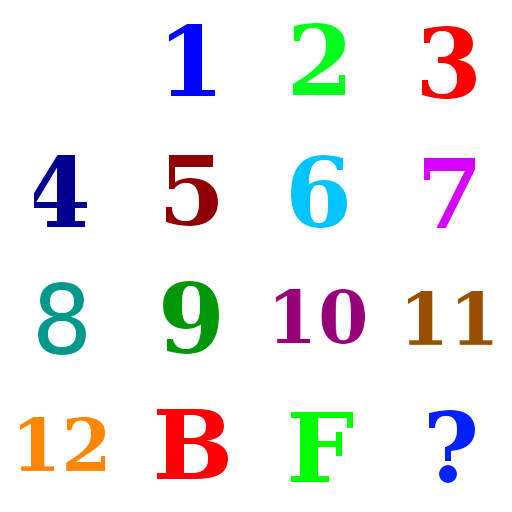
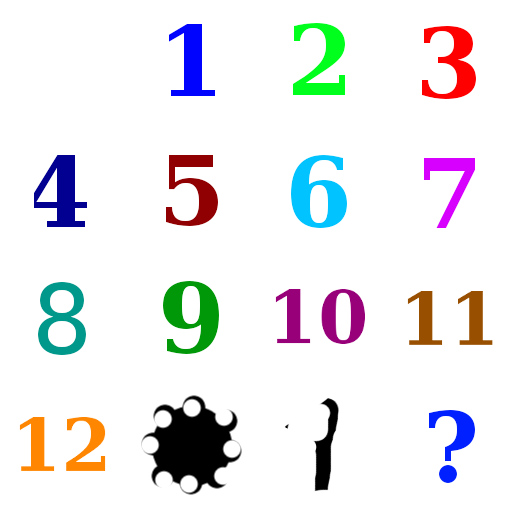
Iniitial layout done.

Changed region(s): [[0.2812, 0.75, 0.4688, 0.9688], [0.5625, 0.7812, 0.6875, 0.9688]]

diff --git a/minesphere.js b/minesphere.js
@@ -24,9 +24,9 @@ var Config = (function(){
     }
     return {
         divisions: query_string["divisions"] || 3,
-        mines: query_string["mines"] || 106,
-        fov: query_string["fov"] || 100,
-        layback: query_string["layback"] || 1,
+        mines: query_string["mines"] || 200,
+        fov: query_string["fov"] || 90,
+        layback: query_string["layback"] || 0.5,
         normalize: !query_string["dont_normalize"],
         tiles: query_string["tiles"] || "tiles_en.png"
     };
@@ -152,6 +152,32 @@ var Board = (function(){
         divide();
     }
 
+    // iterate the tiles adjacent to this one (including vertices, aka the visible set of a bomb)
+    Board.iter = function (index, cb)
+    {
+        var tri = Board.triangles[index];
+        var visited = {};
+        visited[index] = true;
+        for (var i = 0; i < 3; ++i)
+        {
+            var prev = index;
+            var cur = tri.ni[i];
+            while (!visited[cur] || prev == index)
+            {
+                if (!visited[cur])
+                {
+                    cb(cur);
+                    visited[cur] = true;
+                }
+                var ntri = Board.triangles[cur];
+                var ne = ntri.ni.indexOf(prev);
+                var next = ntri.ni[(ne + 2) % 3];
+                prev = cur;
+                cur = next;
+            }
+        }
+    };
+
     function sub(a,b)
     {
         return [a[0]-b[0],a[1]-b[1],a[2]-b[2]];
@@ -178,14 +204,47 @@ var Board = (function(){
         }
     }
 
+    // state is visible, and passed to shader for rendering
+    // hiddenState is the 'true' state of the board and never changes, and contains no flags, q-marks or unpressed
     Board.state = new Float32Array(Math.ceil(Board.triangles.length / 4) * 4);
+    Board.hiddenState = new Uint8Array(Board.triangles.length);
+    var bombIndices = new Uint16Array(Board.triangles.length);
+    for (var i = 0; i < Board.triangles.length; ++i)
+    {
+        var j = Math.floor(Math.random() * (i + 1));
+        bombIndices[i] = bombIndices[j];
+        bombIndices[j] = i;
+    }
+    var BOMB = 13;
+    var FLAG = 14;
+    var QMARK = 15;
+    var UNPRESSED = 16;
+    for (var i = 0; i < Config.mines; ++i)
+    {
+        Board.hiddenState[bombIndices[i]] = BOMB;
+    }
+    // generate counts in hiddenstate
+    for (var i = 0; i < Config.mines; ++i)
+    {
+        Board.iter(bombIndices[i], function (j)
+        {
+            if (Board.hiddenState[j] != BOMB)
+            {
+                ++Board.hiddenState[j];
+            }
+        });
+    }
+
+    for (var i = 0; i < Board.triangles.length; ++i)
+    {
+        Board.state[i] = Board.hiddenState[i];//UNPRESSED;
+    }
 
     Board.maxLayback = 1.0;
     Board.stride = 9;
     Board.vertexBuffer = new Float32Array(Board.triangles.length * 3 * Board.stride);
     for (var i = 0; i < Board.triangles.length; ++i)
     {
-        Board.state[i] = i % 17;
         var v0 = Board.triangles[i].vi[0];
         var v1 = Board.triangles[i].vi[1];
         var v2 = Board.triangles[i].vi[2];
@@ -548,7 +607,7 @@ Render.init = function ()
             \n\
             vec3  lighting = texture2D(envmap, vec2(atan( normal.z,  normal.x) * 0.15915494309 + 0.5, asin( normal.y) * 0.31830988618 + 0.5)).xyz; \n\
             \n\
-            if (tindex < 0.5) \n\
+            if (tindex > 15.5) \n\
             { \n\
                 vec3 bNormal = normal; \n\
                 if      (uvw.x == dist) { bNormal += (tangent * px.x + bitangent * px.y) * 0.65; } \n\
